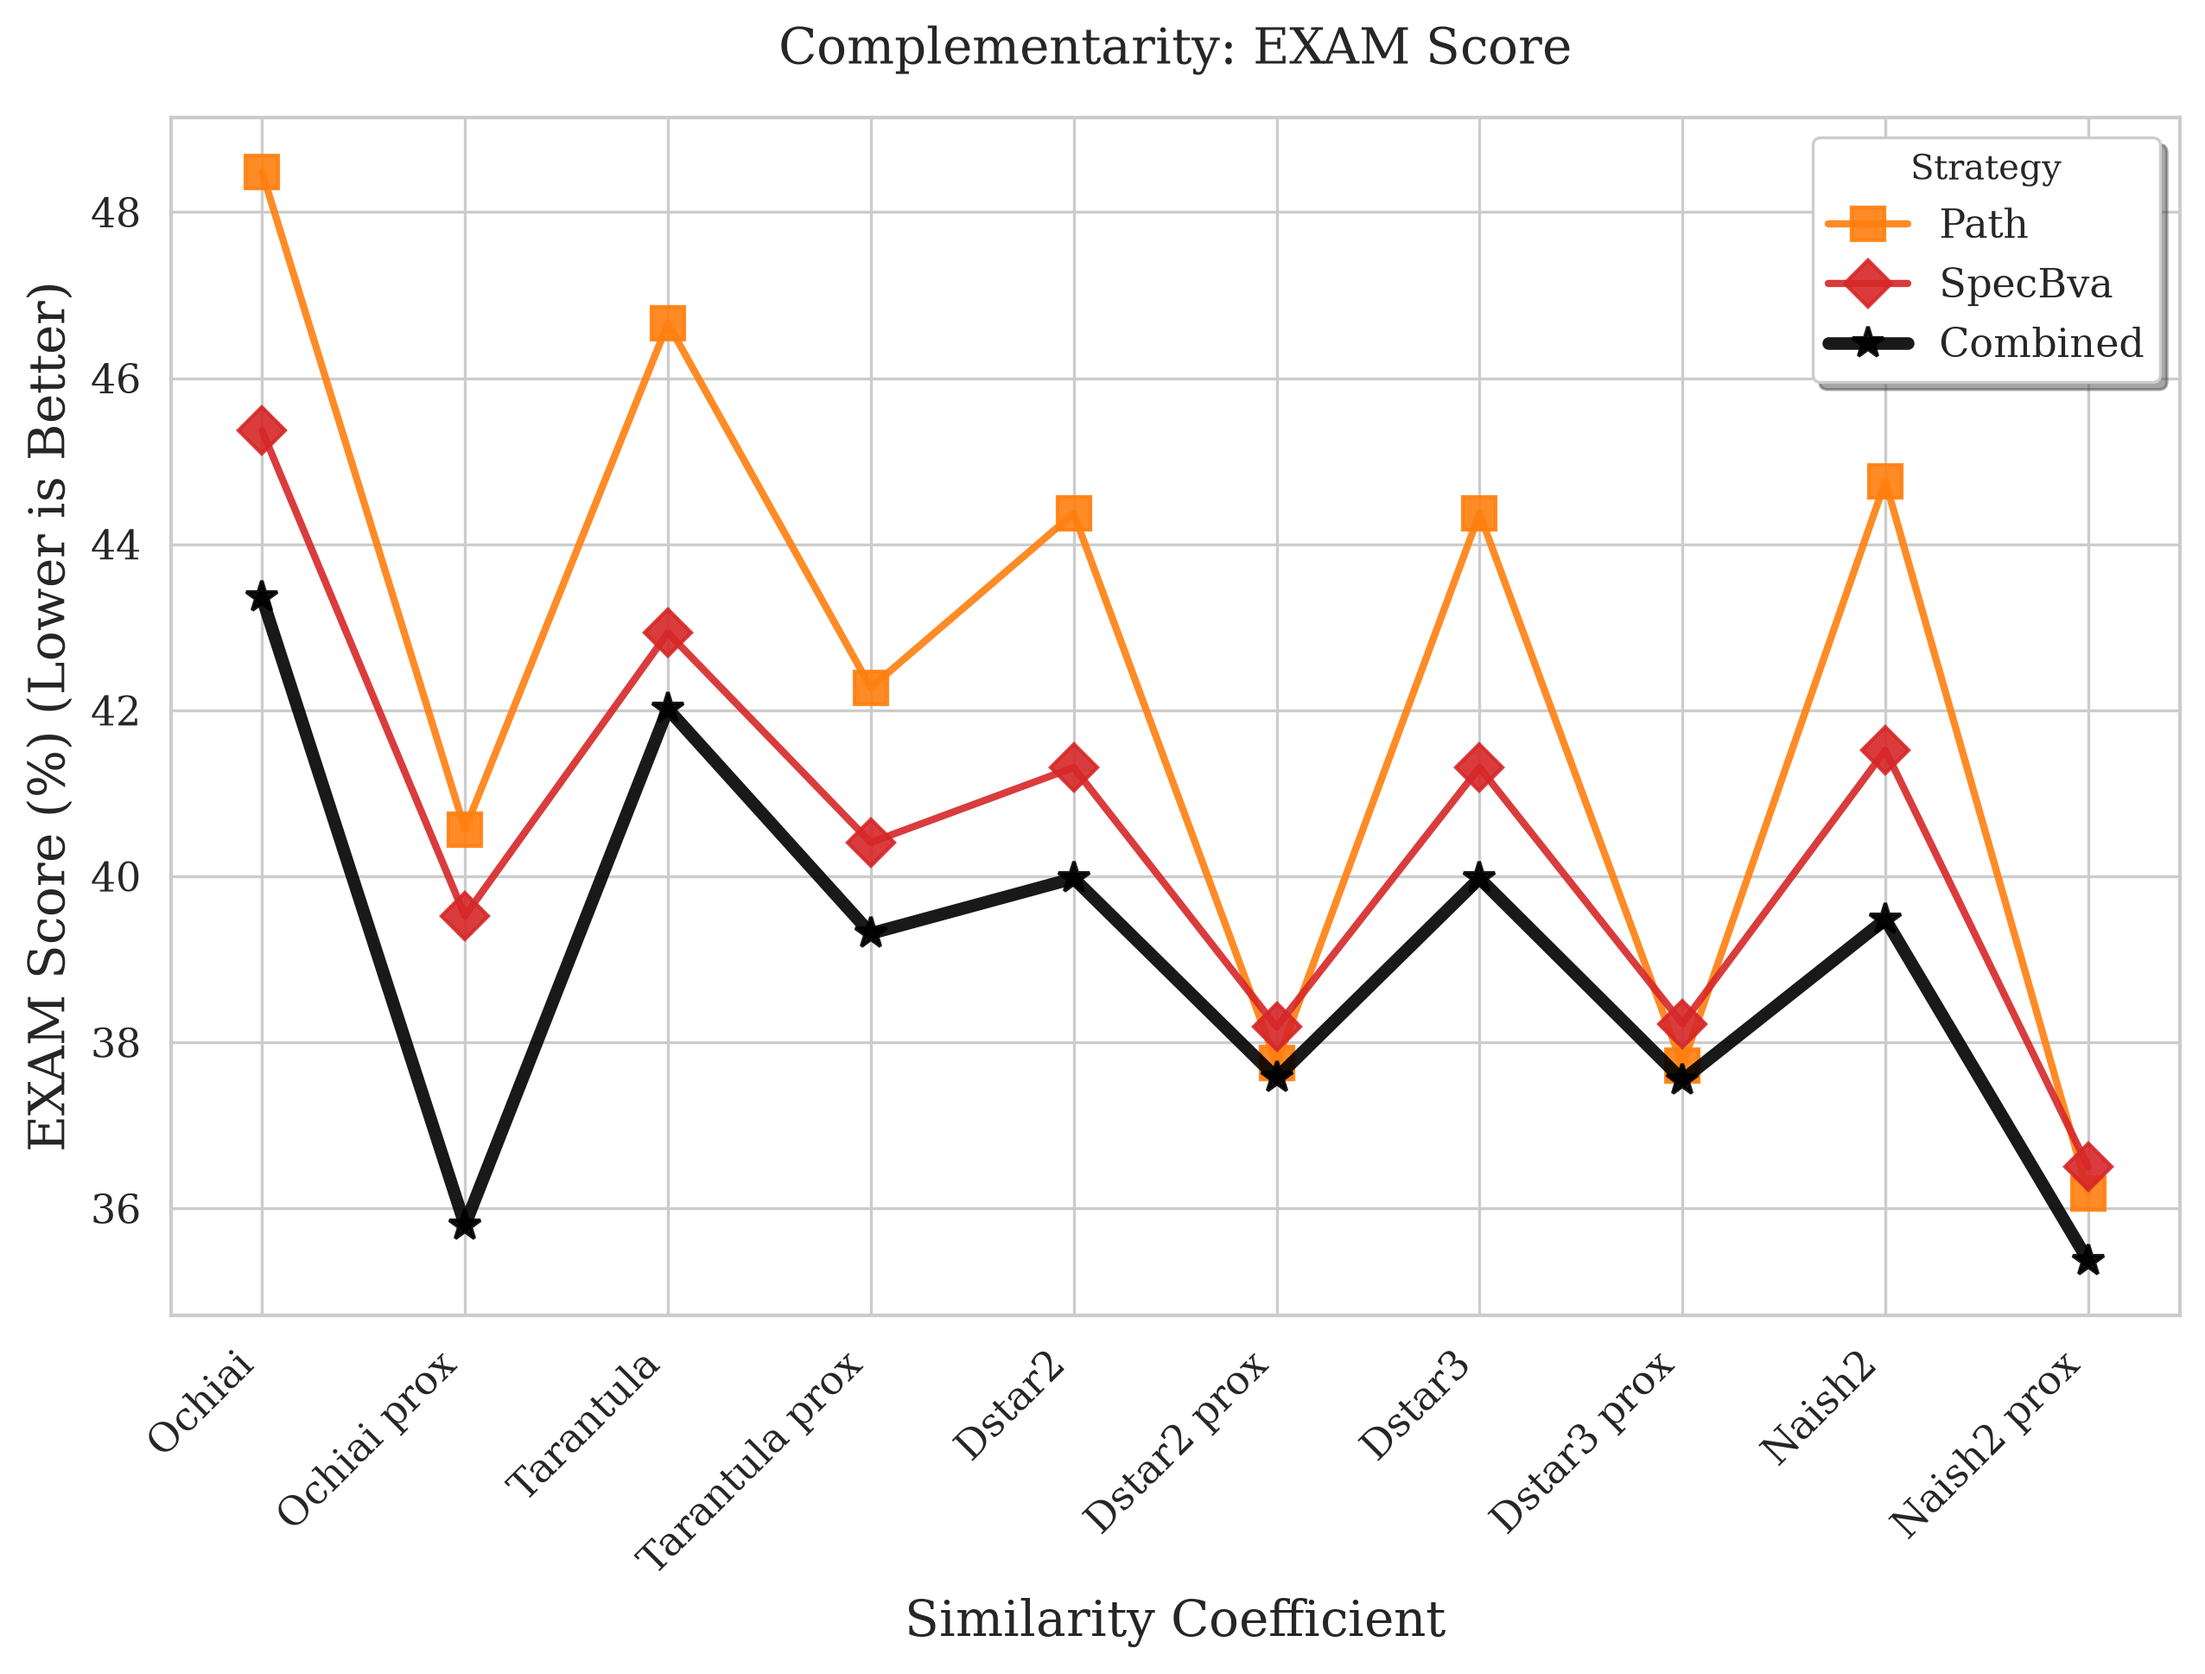
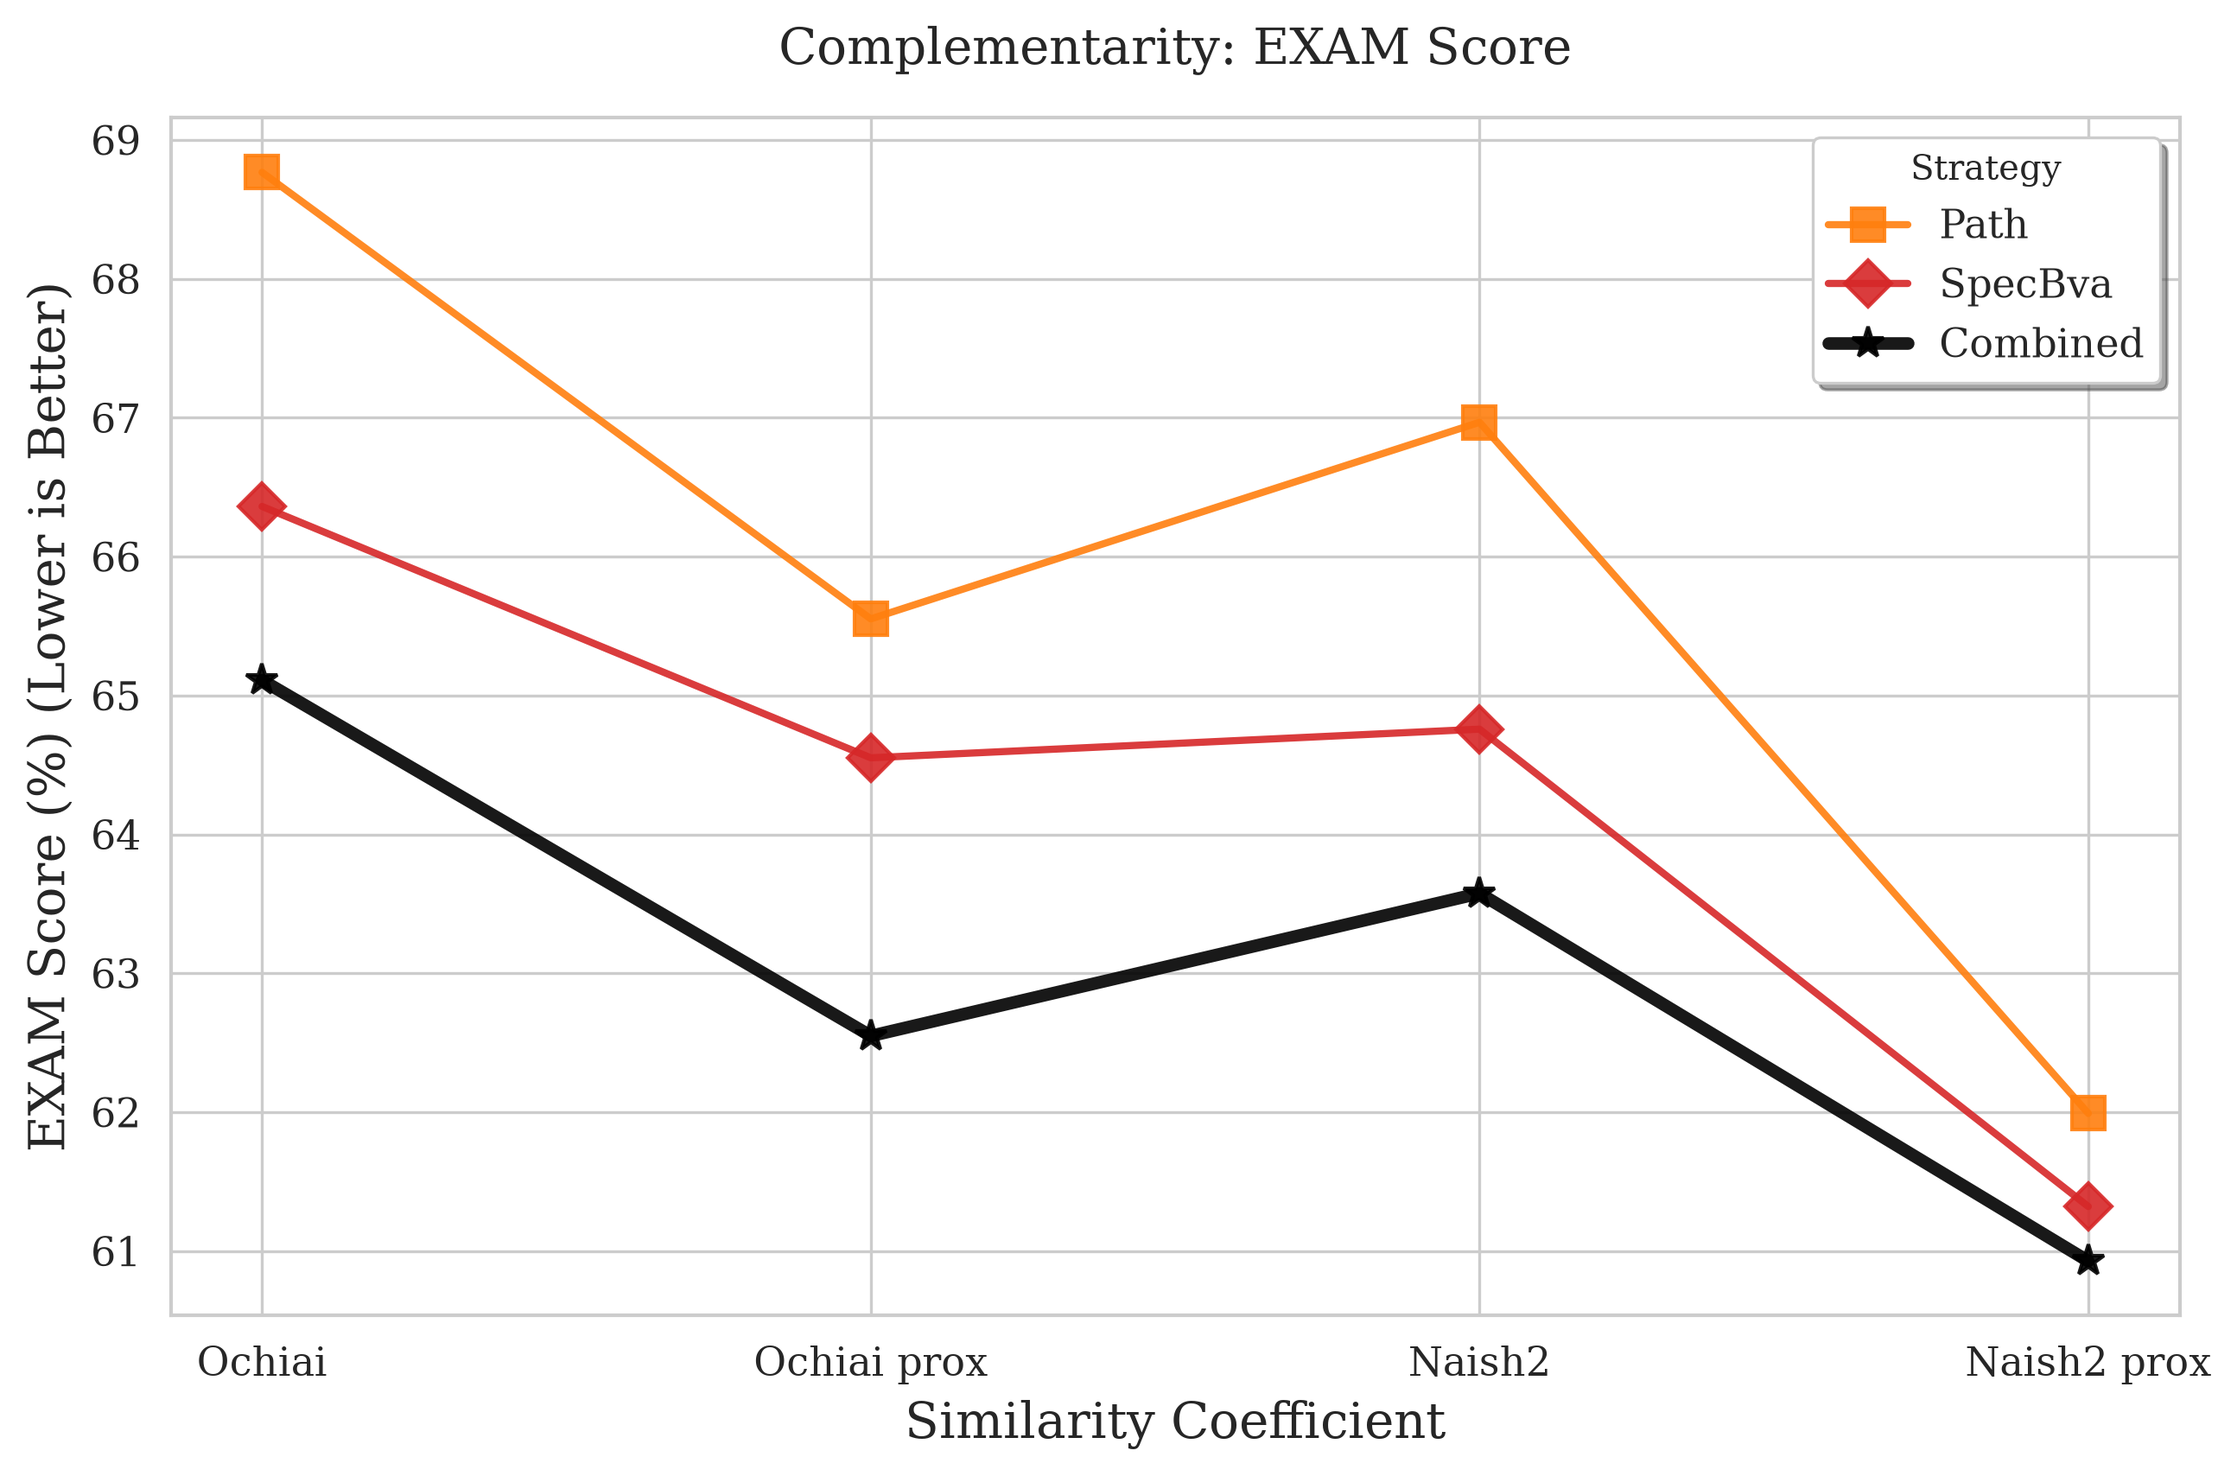
Added Naish2 metric and a proximity-weighted heuristic

diff --git a/sbfl_eval/results/tables/complementarity_metrics_table.tex b/sbfl_eval/results/tables/complementarity_metrics_table.tex
@@ -6,45 +6,21 @@
 \hline
 \textbf{Metric} & \textbf{Strategy} & \textbf{Top-1 (\%)} & \textbf{Top-3 (\%)} & \textbf{Top-5 (\%)} & \textbf{MRR} & \textbf{Avg Rank} & \textbf{EXAM (\%)} \\
 \hline
-Ochiai & Path & 15.2\% & 69.9\% & 93.3\% & 0.453 & 2.90 & 48.48\% \\
- & SpecBva & 22.2\% & 69.4\% & 91.3\% & 0.501 & 2.88 & 45.37\% \\
- & \textbf{Combined} & 25.1\% & 74.5\% & 94.0\% & 0.532 & 2.60 & 43.36\% \\
+Ochiai & Path & 45.8\% & 89.8\% & 97.9\% & 0.681 & 1.96 & 68.77\% \\
+ & SpecBva & 51.4\% & 90.0\% & 97.3\% & 0.715 & 1.90 & 66.36\% \\
+ & \textbf{Combined} & 53.1\% & 91.7\% & 98.1\% & 0.732 & 1.79 & 65.11\% \\
 \hline
-Ochiai\_prox & Path & 31.8\% & 78.1\% & 91.6\% & 0.586 & 2.63 & 40.57\% \\
- & SpecBva & 34.9\% & 72.3\% & 89.2\% & 0.588 & 2.83 & 39.52\% \\
- & \textbf{Combined} & 41.4\% & 79.3\% & 92.3\% & 0.651 & 2.42 & 35.80\% \\
+Ochiai\_prox & Path & 55.0\% & 90.3\% & 97.2\% & 0.741 & 1.86 & 65.55\% \\
+ & SpecBva & 58.1\% & 87.9\% & 96.3\% & 0.752 & 1.90 & 64.55\% \\
+ & \textbf{Combined} & 60.9\% & 91.0\% & 97.4\% & 0.780 & 1.74 & 62.55\% \\
 \hline
-Tarantula & Path & 12.0\% & 67.7\% & 91.6\% & 0.439 & 2.97 & 46.66\% \\
- & SpecBva & 19.3\% & 70.1\% & 91.1\% & 0.495 & 2.85 & 42.93\% \\
- & \textbf{Combined} & 21.4\% & 72.3\% & 92.0\% & 0.515 & 2.68 & 42.02\% \\
+Naish2 & Path & 44.4\% & 91.5\% & 97.9\% & 0.687 & 1.89 & 66.97\% \\
+ & SpecBva & 49.5\% & 92.5\% & 97.2\% & 0.720 & 1.85 & 64.76\% \\
+ & \textbf{Combined} & 51.0\% & 93.7\% & 97.9\% & 0.735 & 1.73 & 63.58\% \\
 \hline
-Tarantula\_prox & Path & 25.5\% & 72.0\% & 91.6\% & 0.529 & 2.82 & 42.27\% \\
- & SpecBva & 27.2\% & 71.3\% & 90.8\% & 0.540 & 2.87 & 40.41\% \\
- & \textbf{Combined} & 30.6\% & 74.2\% & 91.8\% & 0.570 & 2.67 & 39.31\% \\
-\hline
-Dstar2 & Path & 10.6\% & 76.6\% & 93.3\% & 0.464 & 2.71 & 44.37\% \\
- & SpecBva & 17.1\% & 76.9\% & 91.3\% & 0.506 & 2.77 & 41.31\% \\
- & \textbf{Combined} & 19.3\% & 80.5\% & 93.7\% & 0.533 & 2.46 & 39.98\% \\
-\hline
-Dstar2\_prox & Path & 39.0\% & 78.1\% & 91.8\% & 0.606 & 2.61 & 37.75\% \\
- & SpecBva & 38.3\% & 75.7\% & 88.9\% & 0.594 & 2.78 & 38.19\% \\
- & \textbf{Combined} & 39.5\% & 78.3\% & 91.8\% & 0.610 & 2.60 & 37.57\% \\
-\hline
-Dstar3 & Path & 10.6\% & 76.6\% & 93.3\% & 0.464 & 2.71 & 44.37\% \\
- & SpecBva & 17.1\% & 76.9\% & 91.3\% & 0.506 & 2.77 & 41.31\% \\
- & \textbf{Combined} & 19.3\% & 80.5\% & 93.7\% & 0.533 & 2.46 & 39.98\% \\
-\hline
-Dstar3\_prox & Path & 39.0\% & 78.1\% & 91.8\% & 0.606 & 2.61 & 37.72\% \\
- & SpecBva & 38.1\% & 75.7\% & 88.9\% & 0.593 & 2.79 & 38.23\% \\
- & \textbf{Combined} & 39.5\% & 78.3\% & 91.8\% & 0.610 & 2.59 & 37.55\% \\
-\hline
-Naish2 & Path & 13.7\% & 75.2\% & 93.5\% & 0.467 & 2.75 & 44.76\% \\
- & SpecBva & 19.3\% & 77.1\% & 91.1\% & 0.513 & 2.77 & 41.52\% \\
- & \textbf{Combined} & 22.9\% & 80.7\% & 93.5\% & 0.547 & 2.44 & 39.48\% \\
-\hline
-Naish2\_prox & Path & 41.2\% & 80.0\% & 94.0\% & 0.625 & 2.42 & 36.19\% \\
- & SpecBva & 40.0\% & 77.3\% & 90.6\% & 0.611 & 2.60 & 36.50\% \\
- & \textbf{Combined} & 41.9\% & 80.7\% & 94.0\% & 0.633 & 2.38 & 35.37\% \\
+Naish2\_prox & Path & 64.6\% & 91.6\% & 98.1\% & 0.783 & 1.72 & 61.99\% \\
+ & SpecBva & 65.2\% & 91.0\% & 97.0\% & 0.786 & 1.74 & 61.32\% \\
+ & \textbf{Combined} & 66.1\% & 92.1\% & 98.1\% & 0.795 & 1.67 & 60.93\% \\
 \hline
 \end{tabular}
 \end{table}

diff --git a/sbfl_eval/src/runners/run_sbfl.py b/sbfl_eval/src/runners/run_sbfl.py
@@ -22,7 +22,7 @@ from src.utils.config import (
 )
 
 def calculate_file_metrics(file_data, target_metrics):
-    """Calculates SBFL metrics and a new Proximity-Weighted Ochiai."""
+    """Calculates SBFL metrics"""
     
     AVAILABLE_METRICS = [
         "ochiai", "ochiai_prox",
